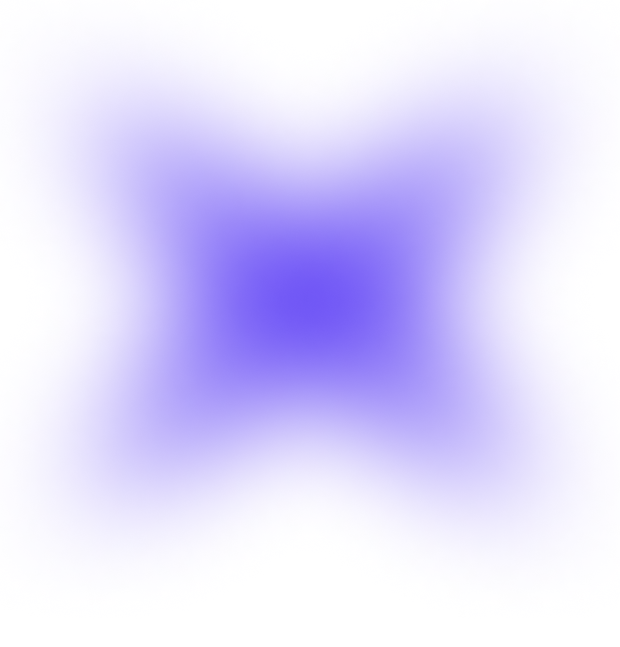
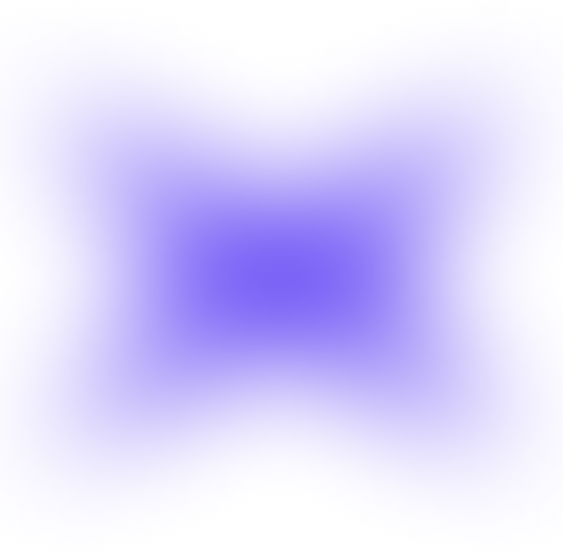
fix: adjust background position and fix infinite scroll for carousel

Changed region(s): [[0.3321, 0.245, 0.6643, 0.4288]]

diff --git a/lib/feature/wallet/view/wallet_view.dart b/lib/feature/wallet/view/wallet_view.dart
@@ -67,16 +67,13 @@ class _Background extends StatelessWidget {
   @override
   Widget build(BuildContext context) {
     return Positioned(
-      top: -DimensSizeV2.d16,
+      top: -DimensSizeV2.d36,
       left: 0,
       right: 0,
-      child: Padding(
-        padding: const EdgeInsets.all(DimensSizeV2.d8),
-        child: Image.asset(
-          Assets.images.bgMain.bgMain.path,
-          fit: BoxFit.contain,
-          alignment: Alignment.topCenter,
-        ),
+      child: Image.asset(
+        Assets.images.bgMain.bgMain.path,
+        fit: BoxFit.contain,
+        alignment: Alignment.topCenter,
       ),
     );
   }

diff --git a/lib/feature/wallet/widgets/wallet_account_body/wallet_account_body_widget.dart b/lib/feature/wallet/widgets/wallet_account_body/wallet_account_body_widget.dart
@@ -105,6 +105,7 @@ class _Carousel extends StatelessWidget {
       options: CarouselOptions(
         height: DimensSizeV2.d124,
         viewportFraction: 1,
+        enableInfiniteScroll: items.length > 1,
         onPageChanged: onPageChanged,
       ),
       itemCount: items.length,
